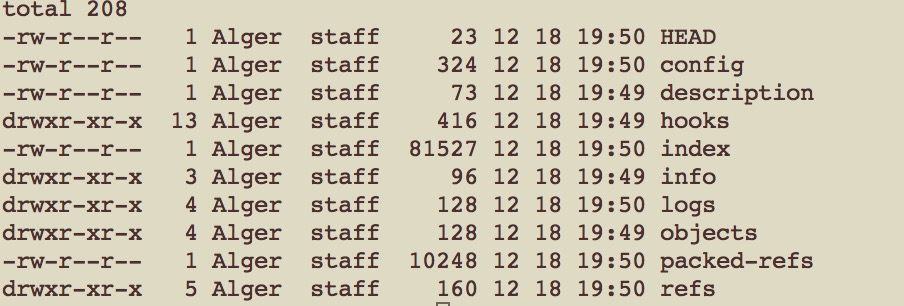
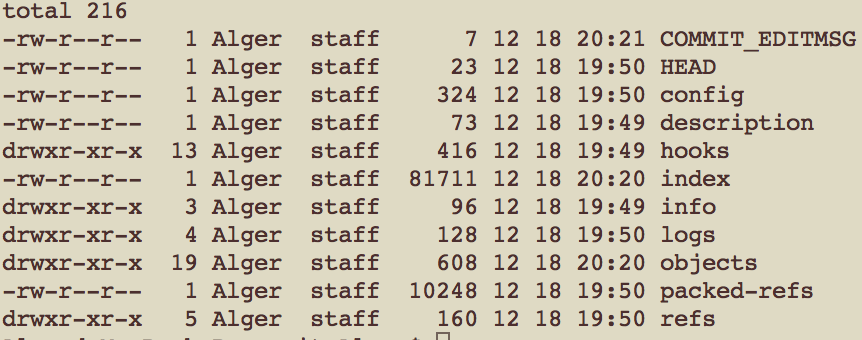
未完待续-04

diff --git a/_posts/2018-12-18-post-04-Git.md b/_posts/2018-12-18-post-04-Git.md
@@ -4,7 +4,47 @@ search: false
 author: "Shadow"
 ---
 
-# 图片1 url
-![.git目录](https://github.com/ShadowsGtt/ShadowsGtt.github.io/blob/master/mydata/image/gitfile.png ".git目录")
-# 图片2 绝对地址
-![目录](/mydata/image/gitfile.png "目录")
+## .git目录是什么?  
+&emsp;&emsp;当我们使用git init 命令将一个普通目录初始化为一个Git仓库时，
+在该目录下会生成一个名字为`.git`的隐藏目录。`.git`目录是Git的核心，里面包含
+了Git的所有操作记录等
+
+## .git目录中有什么?分别有什么用?  
+&emsp;emsp;让我们用过`ls -l`来看一下这个目录有什么?  
+![.git目录](/mydata/image/gitfile.png "目录")  
+
+
+### **COMMIT_DITMSG**  
+&emsp;&emsp;保存了上一次COMMIT的描述信息,仅供我们自己参考，Git不会用到它。
+&emsp;&emsp;让我们通过`cat COMMIT_EDITMSG` 来看一下文件内容  
+![COMMIT_EDITMSG](/mydata/image/COMMIT_EDITMSG "")  
+&emsp;&emsp;看到的结果确实是我们上一次COMMIT的描述信息
+
+### **HEAD**  
+&emsp;&emsp;一个引用，指向当前工作的分支  
+通过`cat HEAD`来看一下里面的内容  
+![HEAD](/mydata/image/HEAD "")  
+&emsp;&emsp;说明我们当前工作在master分支下  
+
+
+### **config**  
+&emsp;&emsp;保存了Git仓库的配置信息，直接通过`cat config`命令查看文件内容
+和使用`git config --list`都可以看到Git的配置信息.  
+![config文件内容](/mydata/image/config "")  
+
+### **decription**  
+&emsp;&emsp;保存了Git仓库的描述信息，你可以编辑这个文件内容。  
+
+### **hooks**  
+&emsp;&emsp;存放了shell脚本，初始化过的Git仓库的hooks目录下会有一些事例脚本
+你也可以写一些自定义脚本，该脚本可以在特定的动作下被触发  
+
+### **index**  
+&emsp;&emsp;一个二进制文件，索引中包含一个列表，列表根据文件名、文件模式和文件元数据进行了排序，
+以便快速检测文件的变化。索引中还包含所有Blob类型的SHA-1标识符。
+当我们在工作区中进行了任意的操作之后git都会向这个文件中输入操作信息，当我们利用git status查询的时候，就会用index来和版
+本库中的最新版本进行比较，以此确定哪些文件是什么状态.  
+***附上Git文件的四种状态****  
+![Git文件的四种状态](/mydata/image/filestatus "")  
+
+
